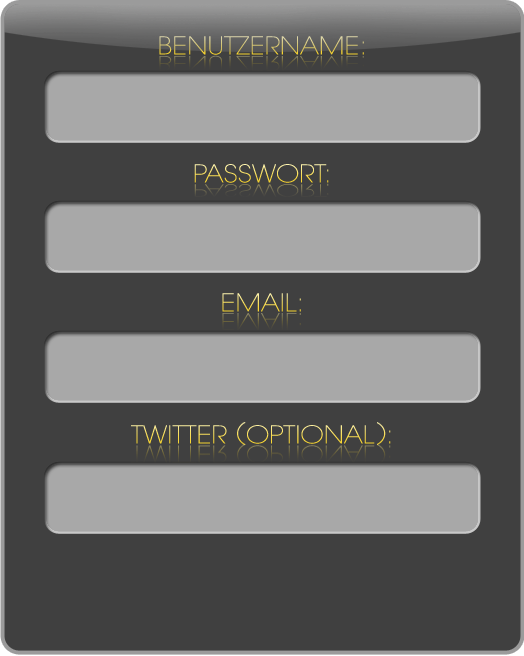
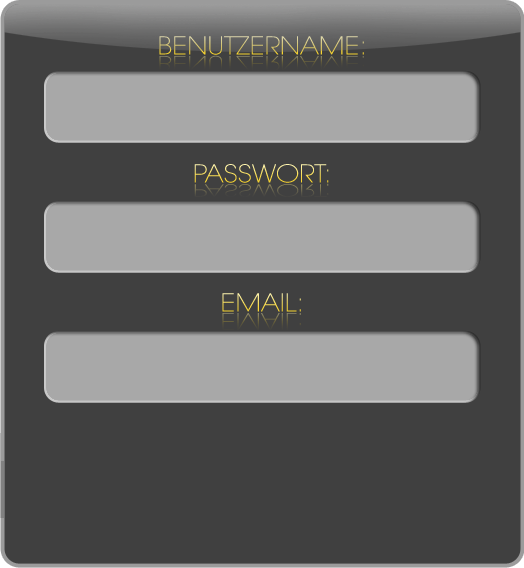
Refactor: layoutRegister and Userprofile bagdesview

diff --git a/ImmopolyIPhone/ImmopolyIPhone/UserProfileViewController.m b/ImmopolyIPhone/ImmopolyIPhone/UserProfileViewController.m
@@ -100,9 +100,9 @@
             [btBadge setBackgroundImage:image forState:UIControlStateNormal];
             
             if (i%2 == 0) {
-                btBadge.frame = CGRectMake(posX, 2, 60, 60);
+                btBadge.frame = CGRectMake(posX, 10, 60, 60);
             } else {
-                btBadge.frame = CGRectMake(posX, 67, 60, 60);
+                btBadge.frame = CGRectMake(posX, 71, 60, 60);
                 posX += 76;
             }
             [btBadge addTarget:self action:@selector(showBadgeText:) forControlEvents:UIControlEventTouchUpInside];

diff --git a/ImmopolyIPhone/ImmopolyIPhone/CoreLocationController.m b/ImmopolyIPhone/ImmopolyIPhone/CoreLocationController.m
@@ -33,8 +33,8 @@
     
     // Check if the class assigning itself as the delegate conforms to our protocol.  If not, the message will go nowhere.  Not good.
     if([self.delegate conformsToProtocol:@protocol(CoreLocationControllerDelegate)]){
-        [self.delegate locationUpdate:newLocation];  //for real phone 
-        //[self.delegate locationUpdate:fhain]; // for simulator
+        //[self.delegate locationUpdate:newLocation];  //for real phone 
+        [self.delegate locationUpdate:fhain]; // for simulator
     }
     
     [fhain release];

diff --git a/ImmopolyIPhone/ImmopolyIPhone/LoginViewController.m b/ImmopolyIPhone/ImmopolyIPhone/LoginViewController.m
@@ -228,7 +228,7 @@
     [UIView beginAnimations:nil context:NULL];
 	[UIView setAnimationDuration:0.4];
 	CGPoint pos = registerView.center;
-	pos.y = 117.0f;
+	pos.y = 136.0f;
     registerView.center = pos;
     [UIView commitAnimations];
 }
